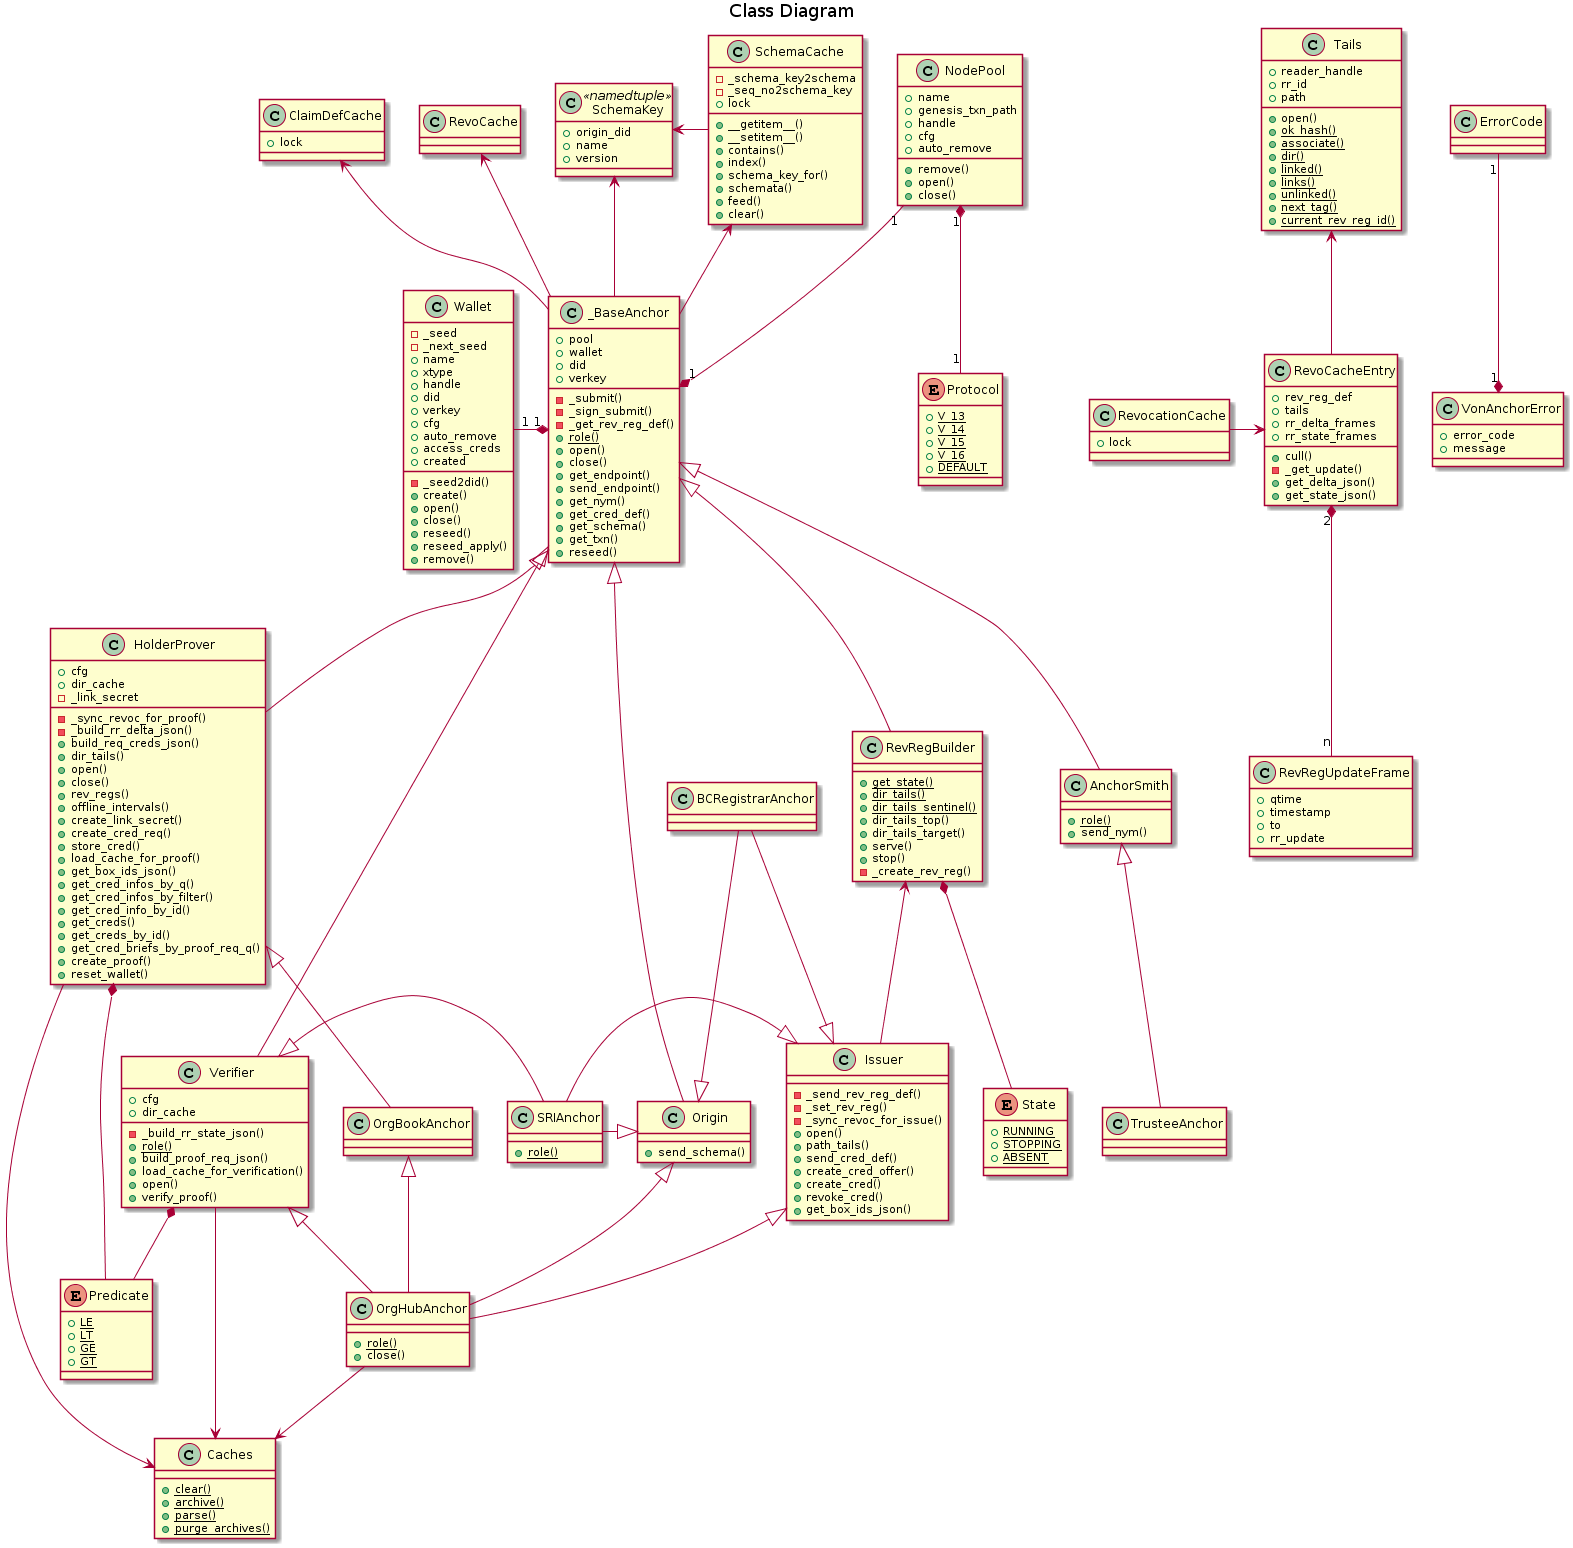
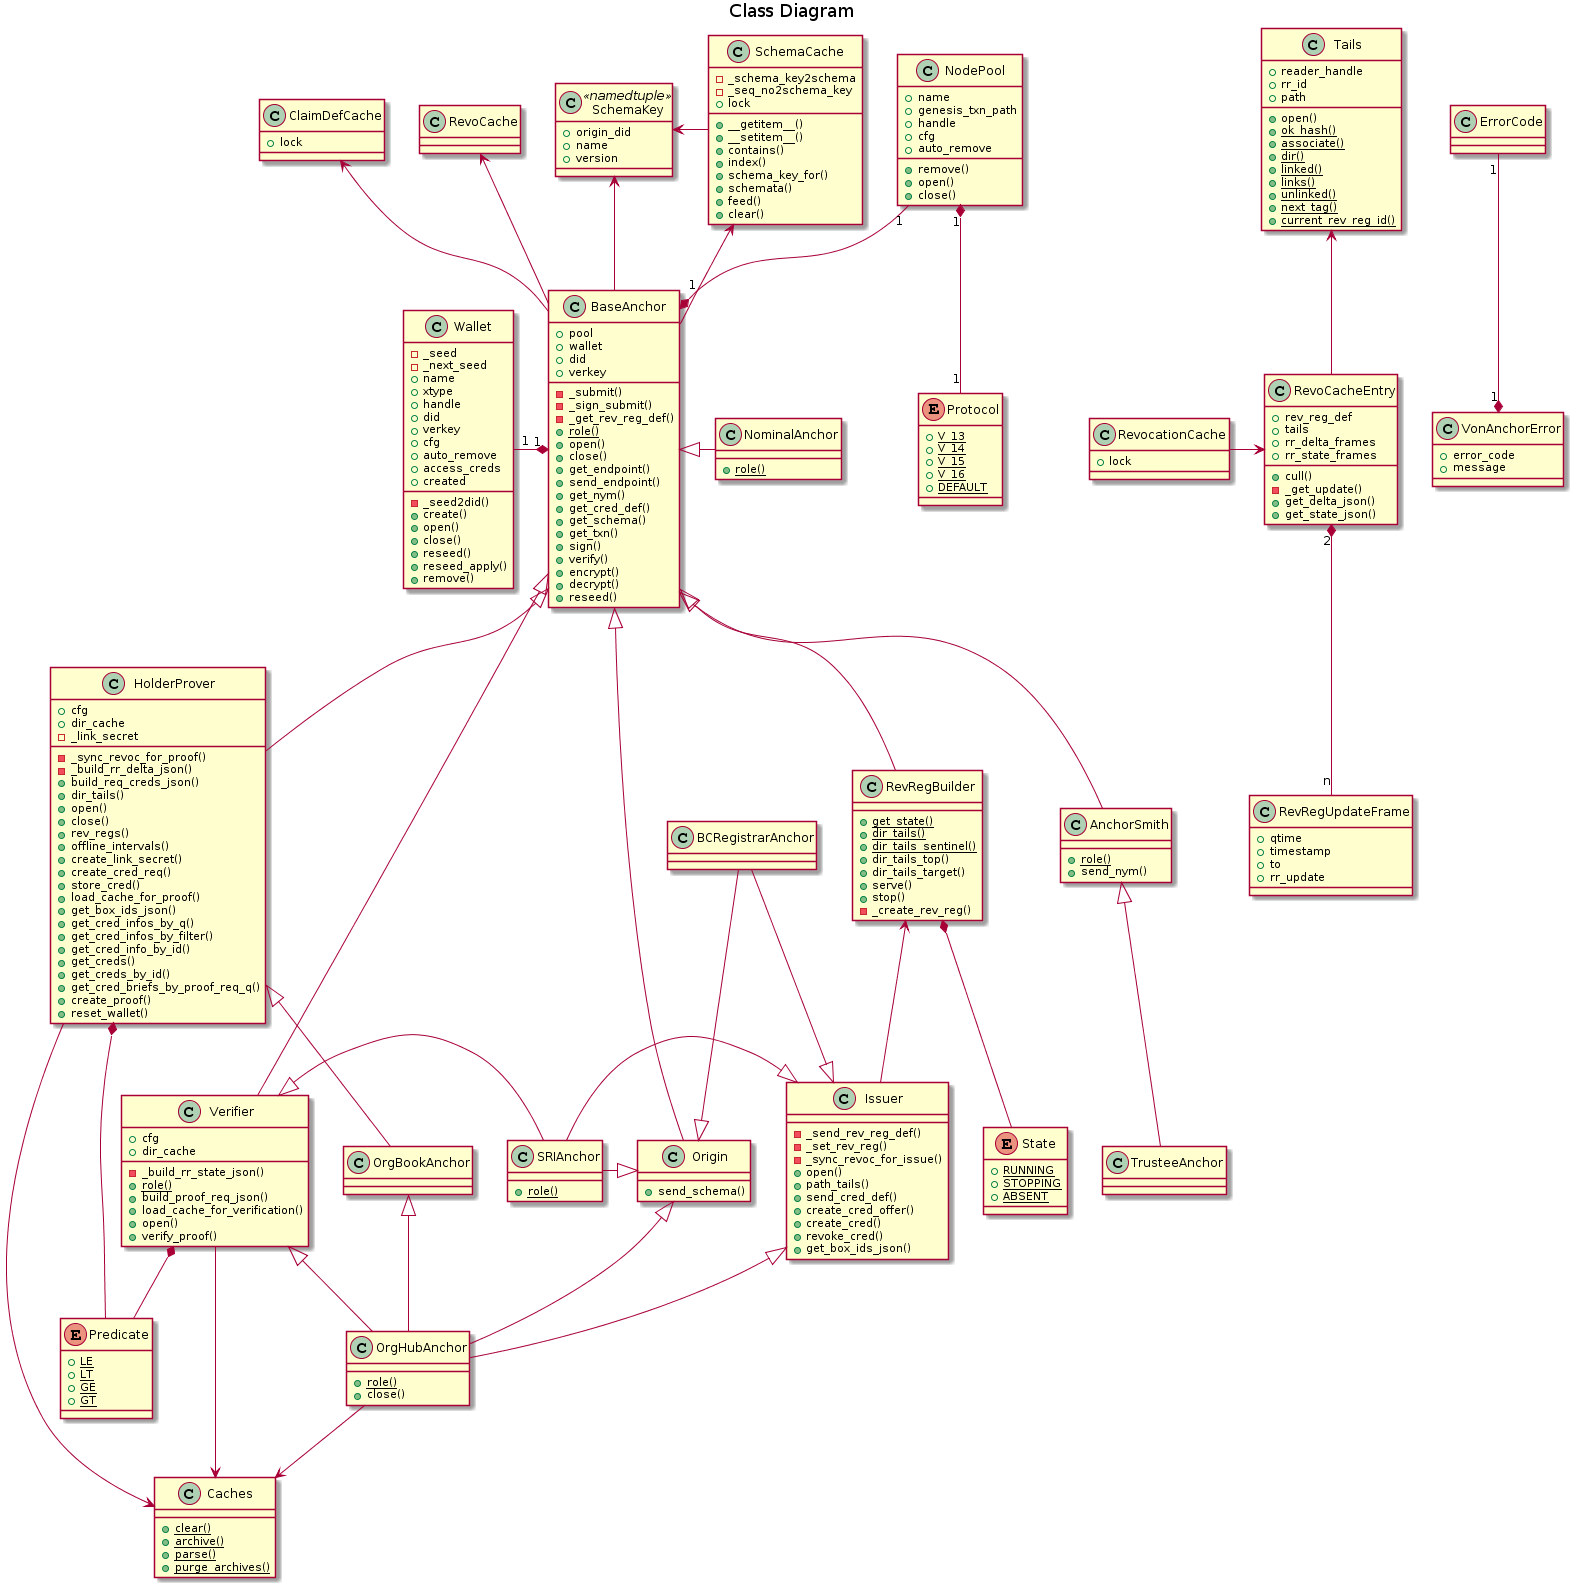
sign, verify, NominalAnchor

diff --git a/von_anchor/anchor/base.py b/von_anchor/anchor/base.py
@@ -160,6 +160,7 @@ class BaseAnchor:
         LOGGER.debug('BaseAnchor.__aexit__ >>> exc_type: %s, exc: %s, traceback: %s', exc_type, exc, traceback)
 
         await self.close()
+
         LOGGER.debug('BaseAnchor.__exit__ <<<')
 
     async def close(self) -> None:
@@ -177,15 +178,15 @@ class BaseAnchor:
 
     async def reseed(self, seed) -> None:
         """
-        Begin key rotation for VON anchor: generate new key for submission via AnchorSmith.
+        Rotate key for VON anchor: generate new key, submit to ledger, update wallet.
 
         :param seed: new seed for ed25519 key pair
         """
 
         LOGGER.debug('BaseAnchor.reseed_init >>> seed: [SEED]')
 
-        reseed = await self.wallet.reseed_init(seed)
-        req_json = await ledger.build_nym_request(self.did, self.did, reseed, self.wallet.name, self.role())
+        verkey = await self.wallet.reseed_init(seed)
+        req_json = await ledger.build_nym_request(self.did, self.did, verkey, self.wallet.name, self.role())
         await self._sign_submit(req_json)
         await self.wallet.reseed_apply()
 
@@ -229,6 +230,7 @@ class BaseAnchor:
         LOGGER.debug('BaseAnchor.role >>>')
 
         rv = 'TRUST_ANCHOR'
+
         LOGGER.debug('BaseAnchor.role <<< %s', rv)
         return rv
 
@@ -567,6 +569,39 @@ class BaseAnchor:
             rv = await crypto.anon_decrypt(self.wallet.handle, self.wallet.verkey, ciphertext)
 
         LOGGER.debug('BaseAnchor.auth_decrypt <<< %s', rv)
+        return rv
+
+    async def sign(self, message: bytes) -> bytes:
+        """
+        Sign message; return signature.
+
+        :param message: Content to sign, as bytes
+        :return: signature, as bytes
+        """
+
+        LOGGER.debug('BaseAnchor.sign >>> message: %s', message)
+
+        rv = await crypto.crypto_sign(self.wallet.handle, self.wallet.verkey, message)
+
+        LOGGER.debug('BaseAnchor.sign <<< %s', rv)
+        return rv
+
+    async def verify(self, message: bytes, signature: bytes, signer_did: str = None) -> bool:
+        """
+        Verify signature with input DID's corresponding verification key.
+
+        :param message: Content to sign, as bytes
+        :param signature: signature, as bytes
+        :param signer_did: signer DID; omit for anchor's own
+        :return: whether signature is valid
+        """
+
+        LOGGER.debug('BaseAnchor.verify >>> signer_did: %s, message: %s, signature: %s', signer_did, message, signature)
+
+        verkey = await did.key_for_did(self.pool.handle, self.wallet.handle, signer_did or self.did)
+        rv = await crypto.crypto_verify(verkey, message, signature)
+
+        LOGGER.debug('BaseAnchor.verify <<< %s', rv)
         return rv
 
     async def get_txn(self, seq_no: int) -> str:

diff --git a/test/test_anchors.py b/test/test_anchors.py
@@ -156,7 +156,7 @@ async def test_anchors_api(
     except AbsentWallet:
         pass
 
-    tan = TrusteeAnchor(await Wallet(seed_trustee1, 'trust-anchor').create(), p)
+    tan = TrusteeAnchor(await Wallet(seed_trustee1, 'trustee-anchor').create(), p)
     san = SRIAnchor(await Wallet('SRI-Anchor-000000000000000000000', 'sri').create(), p)
     pspcoban = OrgBookAnchor(
         await Wallet('PSPC-Org-Book-Anchor-00000000000', 'pspc-org-book').create(),
@@ -1756,7 +1756,7 @@ async def test_anchors_on_nodepool_restart(pool_name, pool_genesis_txn_path, poo
     await p.close()
     assert not path.exists(), 'Pool path {} still present'.format(path)
 
-    # Open pool, SRI + PSPC Org Book anchors (the tests above should obviate its need for trust-anchor)
+    # Open pool, SRI + PSPC Org Book anchors (the tests above should obviate its need for trustee-anchor)
     async with NodePool(pool_name, pool_genesis_txn_path, {'auto-remove': False}) as p, (
         SRIAnchor(await Wallet('SRI-Anchor-000000000000000000000', 'sri').create(), p)) as san, (
         OrgBookAnchor(
@@ -2071,7 +2071,7 @@ async def test_anchor_reseed(
 
     # Open pool, init anchors
     async with NodePool(pool_name, pool_genesis_txn_path, {'auto-remove': False}) as p, (
-            TrusteeAnchor(await Wallet(seed_trustee1, 'trust-anchor').create(), p)) as tan, (
+            TrusteeAnchor(await Wallet(seed_trustee1, 'trustee-anchor').create(), p)) as tan, (
             OrgBookAnchor(await Wallet(seeds[0], 'reseed-org-book').create(), p)) as rsan:
         assert p.handle
 
@@ -2936,3 +2936,17 @@ async def test_crypto(
             assert False
         except BadKey:
             print('\n\n== 7 == PSPC Org Book anchor correctly failed to auth-decrypt from wrong DID')
+
+        # SRI anchor self-signs and verifies
+        signature = await san.sign(plain)
+        assert await san.verify(plain, signature)
+        print('\n\n== 8 == SRI anchor signed then verified {}-byte signature from: {}'.format(len(signature), plain))
+
+        # PSPC Org Book Anchor verifies
+        assert await pspcoban.verify(plain, signature, san.did)
+        print('\n\n== 9 == SRI anchor signed, PSPC Org Book anchor verified {}-byte signature from: {}'.format(
+            len(signature),
+            plain))
+
+        assert not await pspcoban.verify(plain, signature)
+        print('\n\n== 10 == PSPC Org Book anchor faild auto-verification of SRI anchor signature, as expected')

diff --git a/von_anchor/anchor/rrbuilder.py b/von_anchor/anchor/rrbuilder.py
@@ -29,7 +29,7 @@ from sys import path as sys_path
 
 from indy import anoncreds, blob_storage
 
-DIR_VON_ANCHOR = realpath(dirname(dirname(dirname(realpath(__file__)))))
+DIR_VON_ANCHOR = dirname(dirname(dirname(realpath(__file__))))
 if DIR_VON_ANCHOR not in sys_path:
     sys_path.append(DIR_VON_ANCHOR)
 
@@ -137,7 +137,7 @@ class RevRegBuilder(BaseAnchor):
         Return current state of revocation registry builder process.
 
         :param wallet_name: name of wallet for corresponding Issuer
-        :return: current process state as _State enum.
+        :return: current process state as _State enum
         """
 
         dir_sentinel = RevRegBuilder.dir_tails_sentinel(wallet_name)
@@ -319,7 +319,7 @@ class RevRegBuilder(BaseAnchor):
                 'uri_pattern': ''
             }))
 
-        (rr_id, rr_def_json, rr_ent_json) = await anoncreds.issuer_create_and_store_revoc_reg(
+        (created_rr_id, rr_def_json, rr_ent_json) = await anoncreds.issuer_create_and_store_revoc_reg(
             self.wallet.handle,
             self.did,
             'CL_ACCUM',
@@ -336,7 +336,7 @@ class RevRegBuilder(BaseAnchor):
             print(rr_def_json, file=rr_def_fh)
         with open(join(dir_target, 'rr_ent.json'), 'w') as rr_ent_fh:
             print(rr_ent_json, file=rr_ent_fh)
-        Tails.associate(dir_tails, rr_id, tails_hash)  # associate last: it signals completion
+        Tails.associate(dir_tails, created_rr_id, tails_hash)  # associate last: symlink signals completion
 
         LOGGER.debug('RevRegBuilder._create_rev_reg <<<')
 

diff --git a/von_anchor/anchor/demo.py b/von_anchor/anchor/demo.py
@@ -19,6 +19,7 @@ import logging
 
 from os.path import basename
 
+from von_anchor.anchor.base import BaseAnchor
 from von_anchor.anchor.holderprover import HolderProver
 from von_anchor.anchor.issuer import Issuer
 from von_anchor.anchor.origin import Origin
@@ -33,6 +34,26 @@ from von_anchor.wallet import Wallet
 
 
 LOGGER = logging.getLogger(__name__)
+
+
+class NominalAnchor(BaseAnchor):
+    """
+    NominalAnchor demonstrator class needs access to ledger for authenticated encryption and decryption.
+    """
+
+    @staticmethod
+    def role() -> str:
+        """
+        Return the indy-sdk null role for a tails sync anchor, which does not need write access.
+
+        :return: role string
+        """
+
+        LOGGER.debug('NominalAnchor.role >>>')
+
+        rv = None
+        LOGGER.debug('NominalAnchor.role <<< %s', rv)
+        return rv
 
 
 class TrusteeAnchor(AnchorSmith):

diff --git a/test/test_tails_load.py b/test/test_tails_load.py
@@ -65,7 +65,7 @@ async def test_anchors_tails_load(
     p = NodePool(pool_name, pool_genesis_txn_path, {'auto-remove': False})
     await p.open()
 
-    tan = TrusteeAnchor(await Wallet(seed_trustee1, 'trust-anchor').create(), p)
+    tan = TrusteeAnchor(await Wallet(seed_trustee1, 'trustee-anchor').create(), p)
     no_prox = rrbx_prox()
     san = OrgHubAnchor(await Wallet('Superstar-Anchor-000000000000000', WALLET_NAME).create(), p, rrbx=rrbx)
     if rrbx:

diff --git a/von_anchor/__init__.py b/von_anchor/__init__.py
@@ -21,4 +21,4 @@ from .anchor.issuer import Issuer
 from .anchor.holderprover import HolderProver
 from .anchor.rrbuilder import RevRegBuilder
 from .anchor.verifier import Verifier
-from .anchor.demo import BCRegistrarAnchor, OrgBookAnchor, OrgHubAnchor, SRIAnchor, TrusteeAnchor
+from .anchor.demo import BCRegistrarAnchor, OrgBookAnchor, OrgHubAnchor, SRIAnchor, NominalAnchor, TrusteeAnchor

diff --git a/docs/source/conf.py b/docs/source/conf.py
@@ -65,7 +65,7 @@ author = 'Stephen Klump'
 # The short X.Y version.
 version = '1.6'
 # The full version, including alpha/beta/rc tags.
-release = '1.6.41'
+release = '1.6.42'
 
 # The language for content autogenerated by Sphinx. Refer to documentation
 # for a list of supported languages.

diff --git a/setup.py b/setup.py
@@ -20,7 +20,7 @@ from setuptools import setup, find_packages
 
 
 pkg_name = 'von_anchor'
-version = '1.6.41'
+version = '1.6.42'
 
 setup(
     name=pkg_name,

diff --git a/docs/source/design/anchors.rst b/docs/source/design/anchors.rst
@@ -27,7 +27,9 @@ Its (static) ``role()`` method returns the ``TRUST_ANCHOR`` indicator, sufficing
 
 Its ``get_schema()`` and ``get_cred_def()`` methods retrieve schema and credential definitions the ledger. Typically the result comes from its cache; if it goes to the ledger, the implementation populates the applicable cache before returning.
 
-Its ``encrypt()`` and ``decrypt()`` methods delegate to indy-sdk to encrypt, anonymously or with (proof-of-origin) authentication, for itself or another anchor owning an input DID. The actuator packs encrypted values into JWTs for agent-to-agent communications.
+Its ``sign()`` and ``verify()`` methods delegate to indy-sdk to sign and verify content.
+
+Its ``encrypt()`` and ``decrypt()`` methods delegate to indy-sdk to encrypt, anonymously or with (proof-of-origin) authentication, content for itself or another anchor owning an input DID. The actuator packs encrypted values into JWTs for agent-to-agent communications.
 
 The ``get_txn()`` method returns a distributed ledger transaction's content by sequence number.
 
